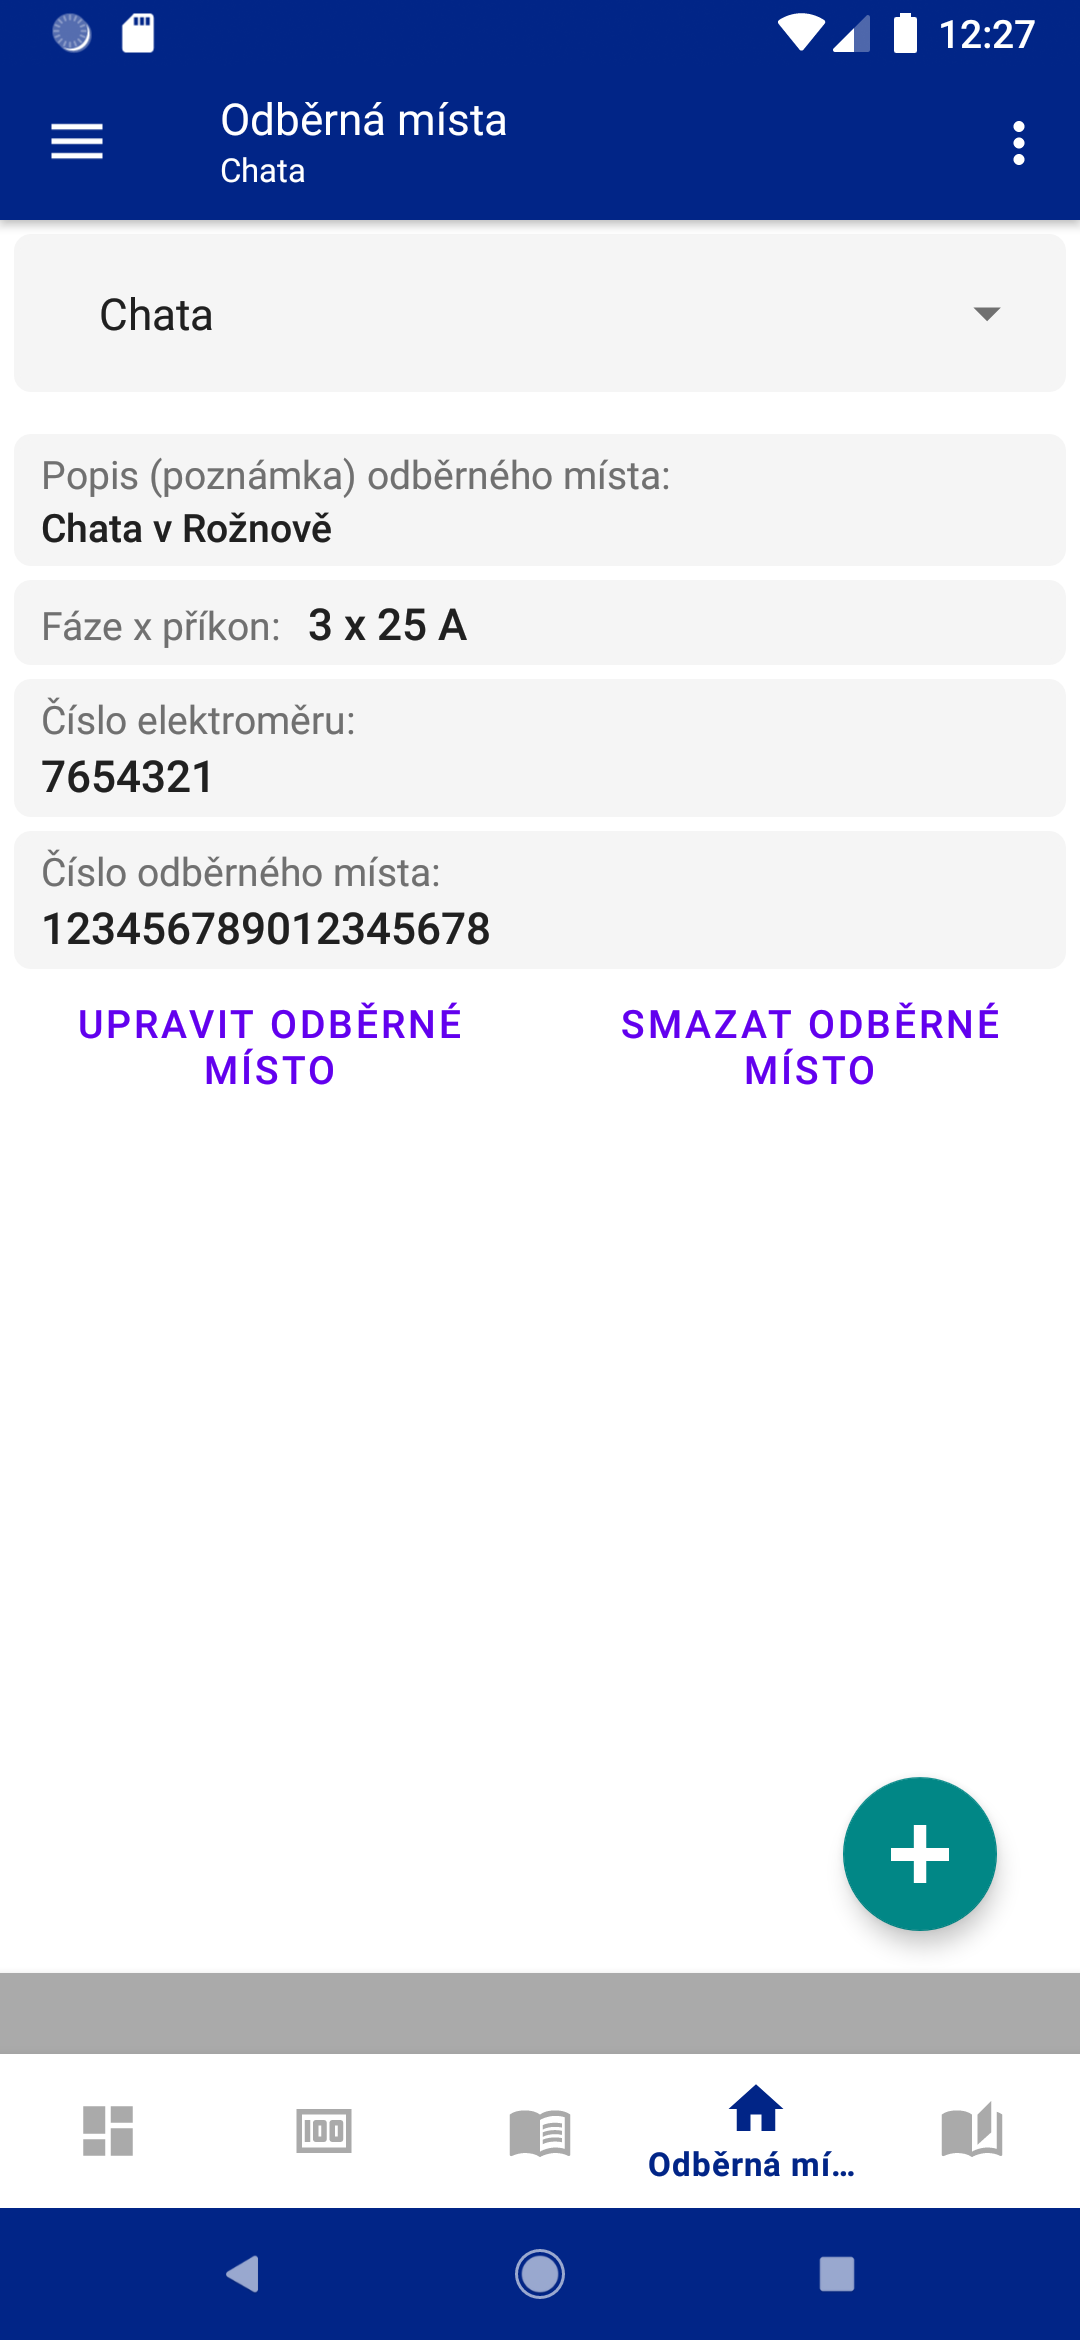
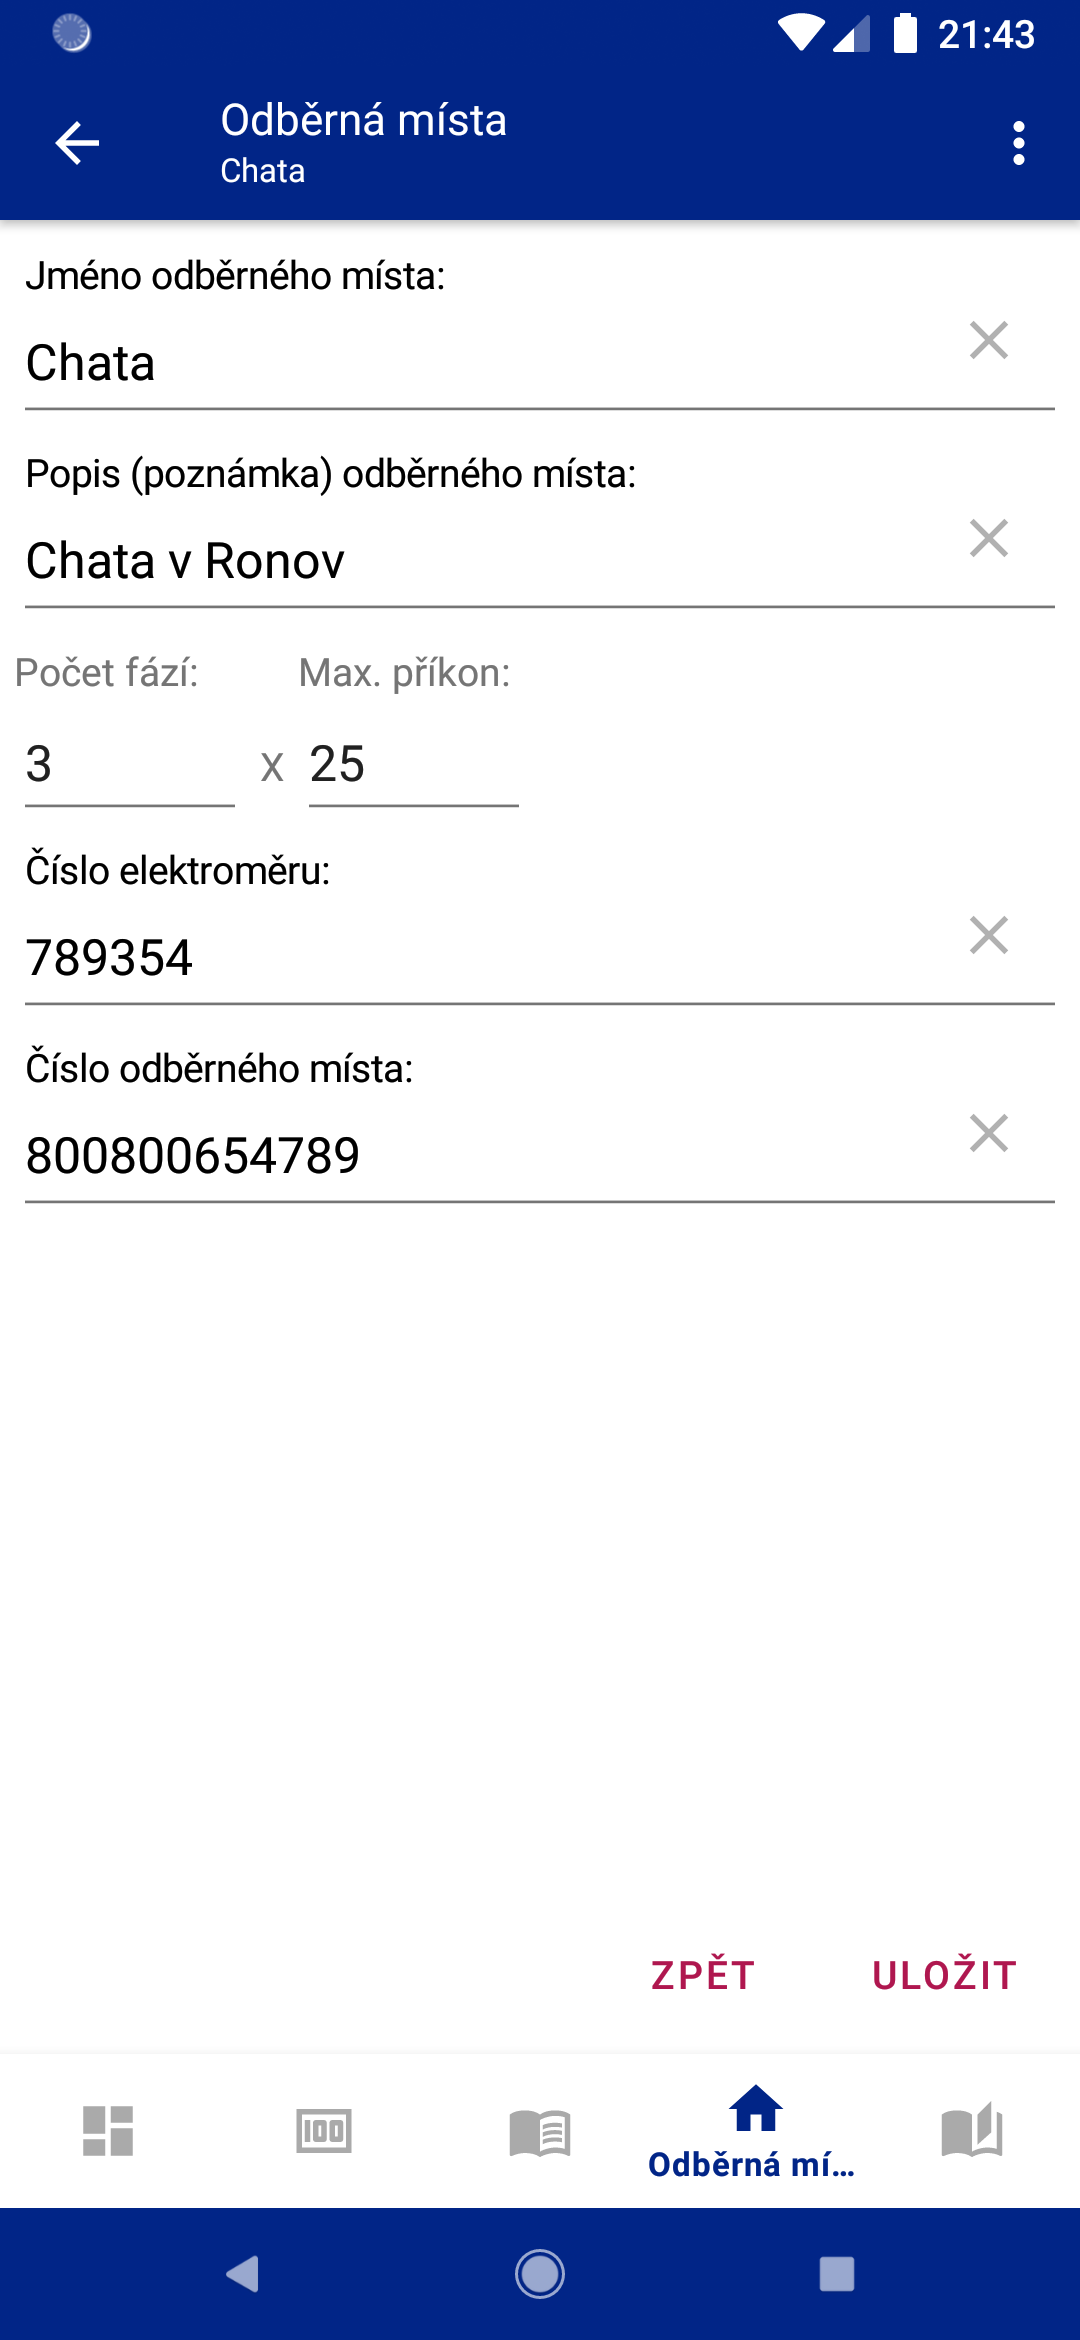
docs: aktualizace dokumentace odběrných míst a úprava textových zdrojů
- README.md: doplnění popisu sekce Notifikace pro připomenutí zápisu odečtu, tlačítek formuláře a přidání nového snímku obrazovky (`odb_3.png`)
- strings.xml: úprava řetězce `settings_group_notifications` z "Upozornění HDO" na "Upozornění"

diff --git a/README.md b/README.md
@@ -14,15 +14,33 @@ Aplikace pracuje s vysokým tarifem (VT), nízkým tarifem (NT), měsíčními z
 
 Odběrné místo představuje konkrétní místo spotřeby elektřiny, například byt, dům, garáž nebo chatu. V aplikaci lze vést více odběrných míst současně. Veškeré měsíční odečty, faktury, použité ceníky a další záznamy se vždy vztahují k aktuálně vybranému odběrnému místu.
 
-Aktuální odběrné místo se vybírá v horní části obrazovky pomocí rozbalovacího seznamu. Pod ním se zobrazují základní údaje vybraného místa, například poznámka, hodnota hlavního jističe, číslo elektroměru a číslo odběrného místa. Tyto údaje pomáhají odlišit jednotlivá místa a zároveň slouží jako podklad pro některé výpočty, zejména u hodnot souvisejících s hlavním jističem.
+Obrazovka odběrných míst je rozdělena na dvě části: **Správa odběrného místa** a **Notifikace**. V
+části **Správa odběrného místa** se vybírá aktuální odběrné místo a zobrazují se jeho základní
+údaje. Aktuální odběrné místo se vybírá pomocí rozbalovacího seznamu v horní části obrazovky. Pod
+ním se zobrazují například poznámka, hodnota hlavního jističe, číslo elektroměru a číslo odběrného
+místa. Tyto údaje pomáhají odlišit jednotlivá místa a zároveň slouží jako podklad pro některé
+výpočty, zejména u hodnot souvisejících s hlavním jističem.
 
-Nové odběrné místo lze přidat pomocí tlačítka **+** v pravé dolní části obrazovky. Stávající odběrné místo lze upravit tlačítkem **Upravit odběrné místo**. Při úpravě se zadává název odběrného místa, poznámka, počet fází, hodnota jističe, číslo elektroměru a číslo odběrného místa.
+Nové odběrné místo lze přidat pomocí tlačítka **+** v pravé dolní části obrazovky. Stávající odběrné
+místo lze upravit tlačítkem **Upravit odběrné místo**. Při úpravě se zadává název odběrného místa,
+poznámka, počet fází, hodnota jističe, číslo elektroměru a číslo odběrného místa. Tlačítkem **Uložit
+** se změny uloží, tlačítkem **Zpět** se formulář zavře bez uložení změn.
 
 Odběrné místo lze také odstranit tlačítkem **Smazat odběrné místo**. Tuto akci je vhodné používat opatrně, protože odstraněním odběrného místa se smažou také záznamy, které k němu patří, například měsíční odečty a faktury.
 
+V části **Notifikace** lze pro každé odběrné místo nastavit připomenutí zápisu odečtu. Připomenutí
+se zapíná volbou **Povolit notifikaci pro zápis odečtu**. Poté lze zvolit, zda se má upozornění
+zobrazovat například měsíčně nebo týdně, nastavit čas notifikace a u měsíčního připomenutí také den
+v měsíci. Nastavení se vztahuje vždy k aktuálně vybranému odběrnému místu.
+
+Chování notifikací závisí také na systémových oprávněních Androidu. Pokud se upozornění nezobrazují
+nebo se zobrazují se zpožděním, je vhodné zkontrolovat nastavení aplikace v části **Nastavení**,
+zejména oprávnění pro notifikace a přesné alarmy.
+
 <p align="center">
-  <img src="screenshots/odb_1.png" width="300" />
-  <img src="screenshots/odb_2.png" width="300" />
+  <img src="screenshots/odb_1.png" width="200" />
+  <img src="screenshots/odb_2.png" width="200" />
+  <img src="screenshots/odb_3.png" width="200" />
 </p>
 
 ## Ceník
